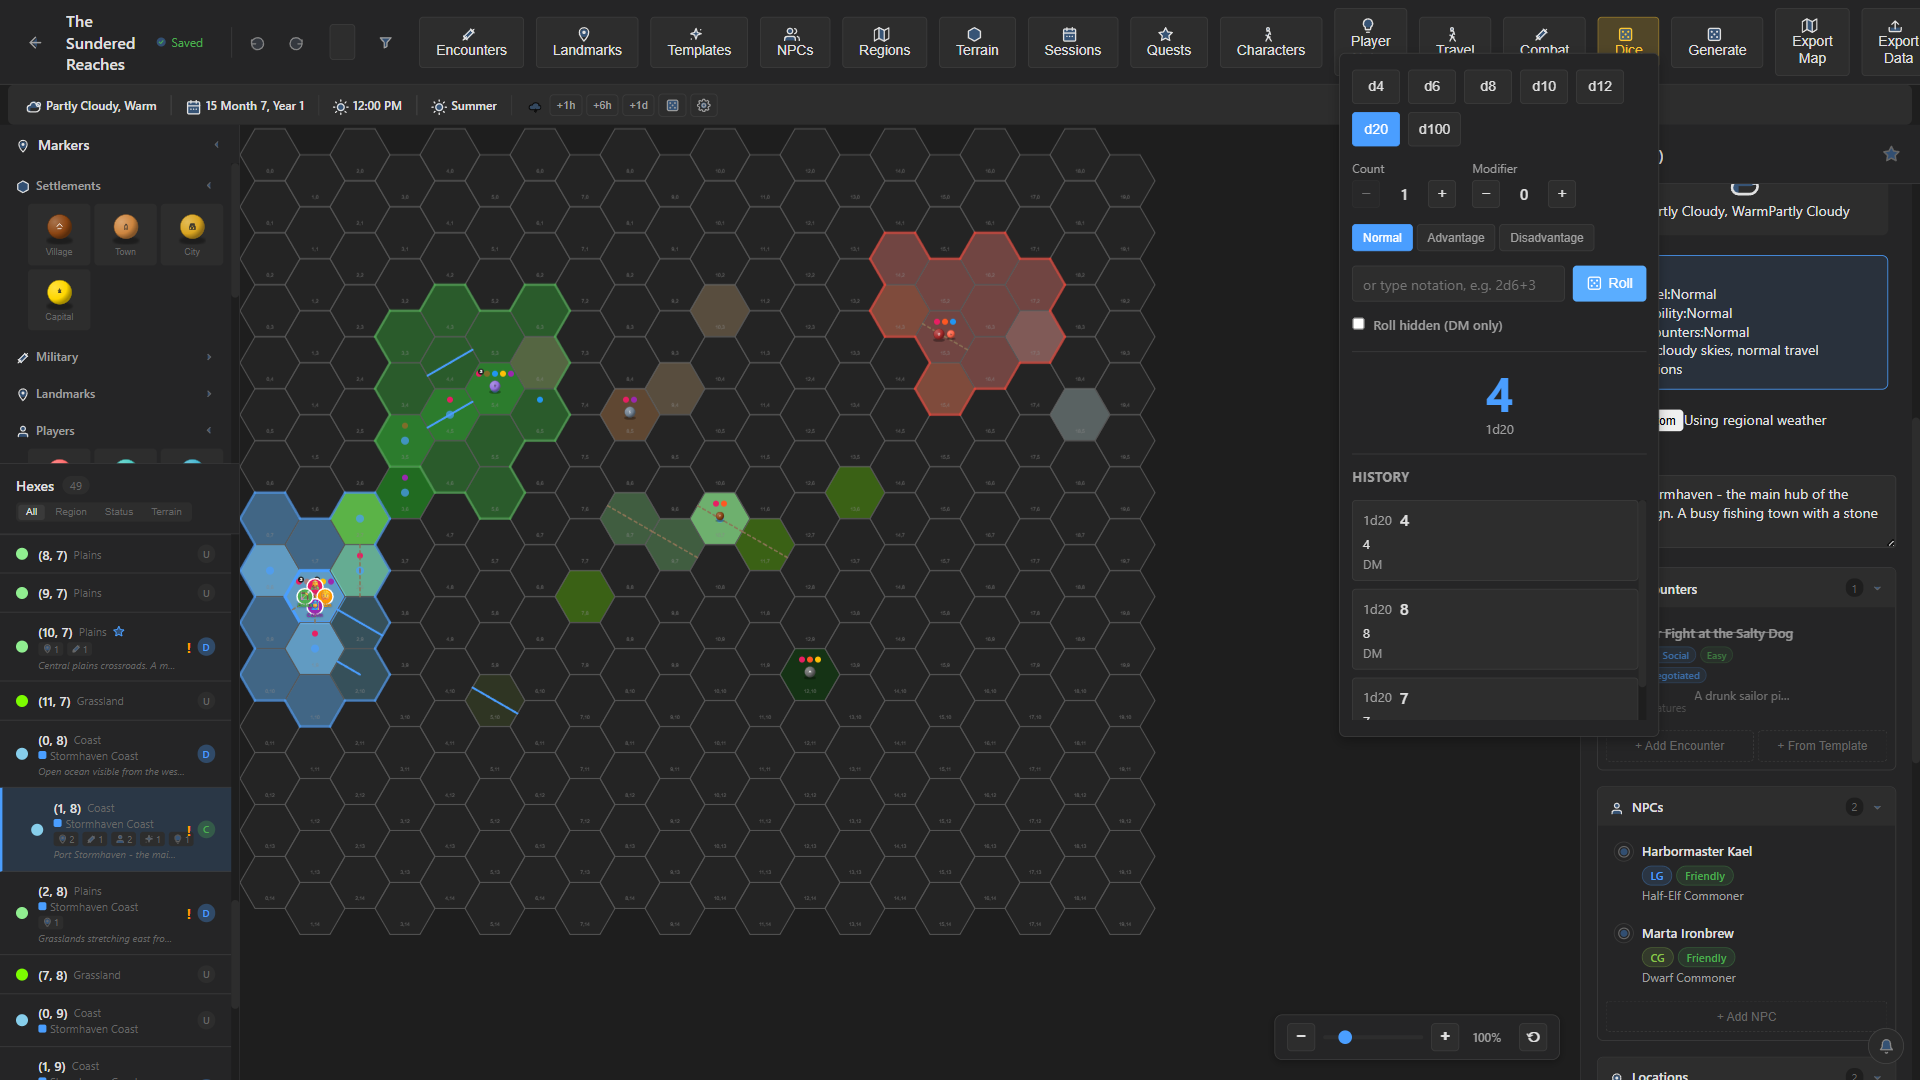
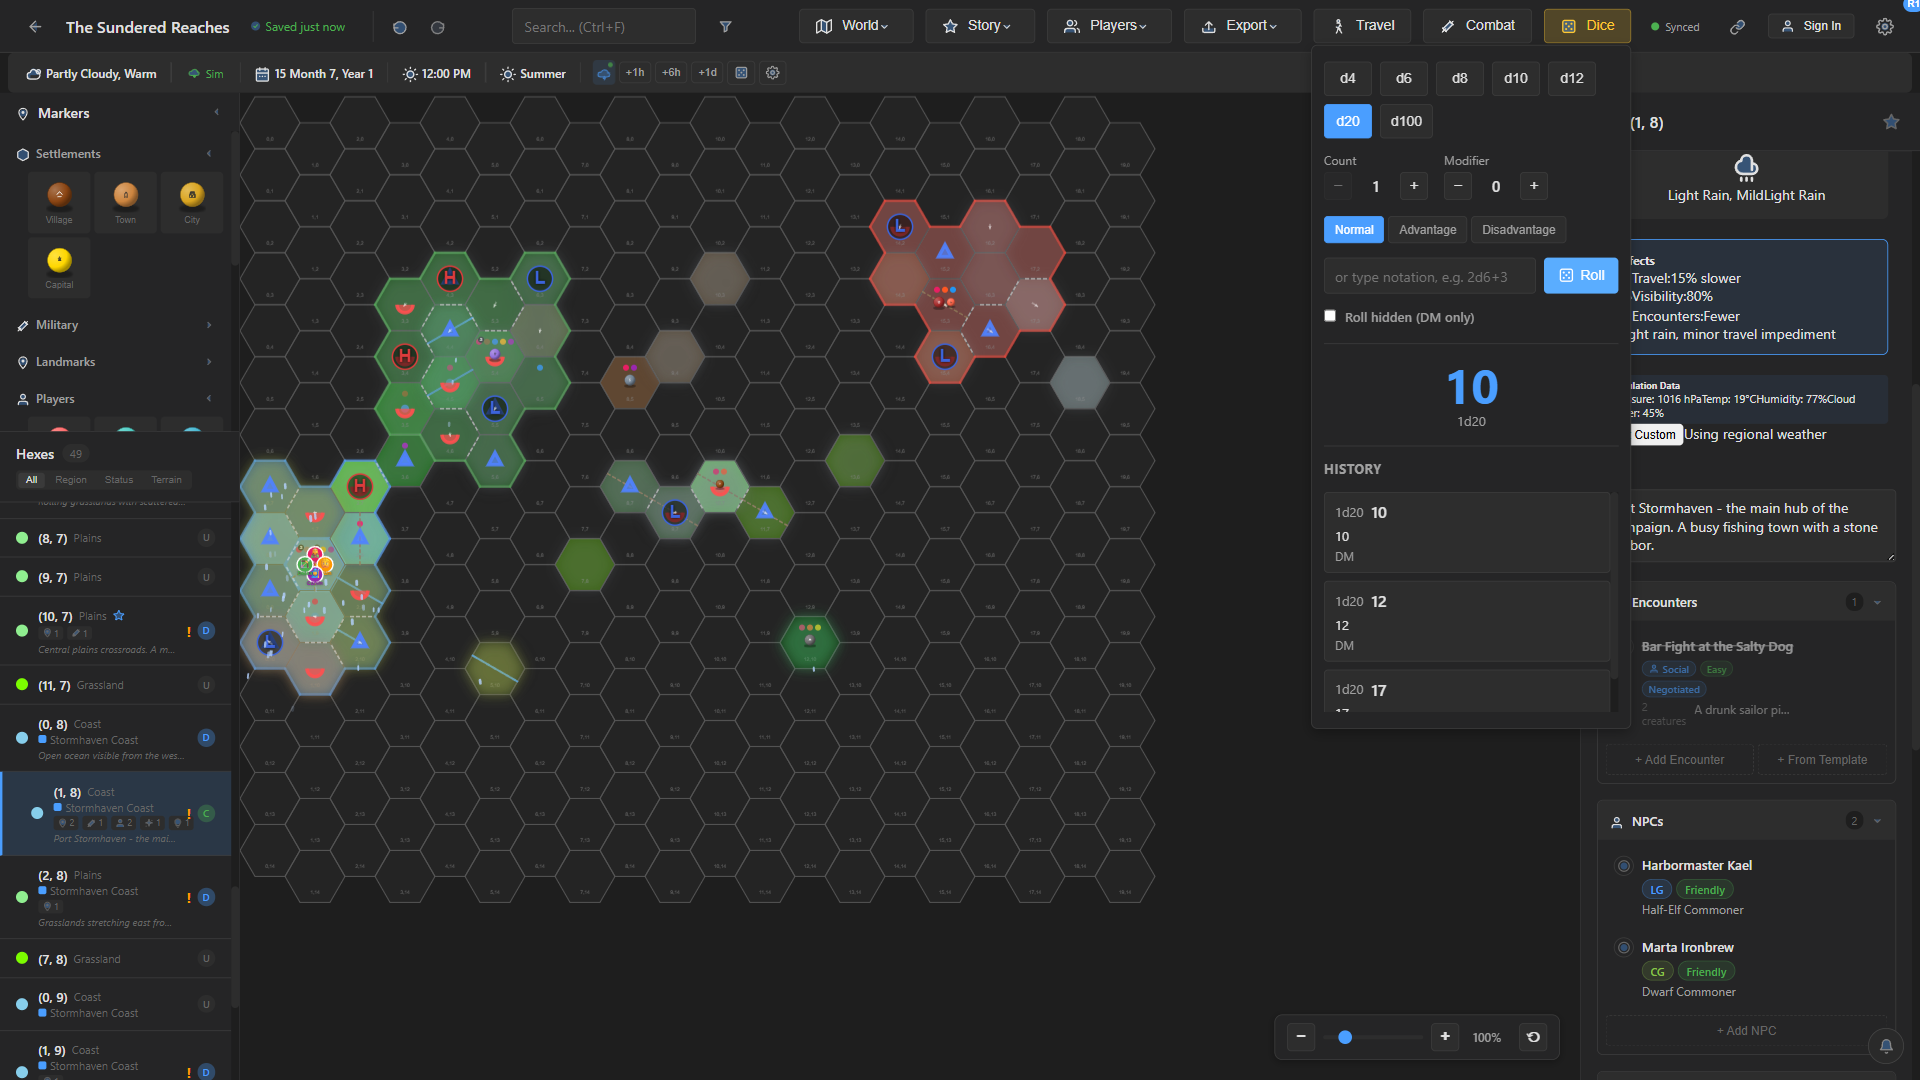
Group toolbar actions into menus so the toolbar fits the window (#131)
* Group toolbar actions into menus so the toolbar fits the window

The editor toolbar was 2274px wide, so at 1920px the last buttons sat past
the edge and clicking one scrolled the whole layout sideways.

Less frequent actions now live in four labelled menus (World, Story,
Players, Export) built on a small ToolbarMenu component with keyboard
support. Travel, Combat and Dice stay as direct buttons. The toolbar also
wraps onto a second row on narrow windows instead of overflowing.

The smoke test and screenshot script open the right menu before clicking
an action, and the smoke test's stale "Tables" check is replaced with
checks for the four menus.

Fixes #127

* Regenerate docs screenshots with the grouped toolbar

diff --git a/src/components/MainEditor.tsx b/src/components/MainEditor.tsx
@@ -32,6 +32,7 @@ import LoginModal from './auth/LoginModal';
 import AccountModal from './auth/AccountModal';
 import ProfileMenu from './auth/ProfileMenu';
 import ConnectionStatus from './ui/ConnectionStatus';
+import ToolbarMenu from './ui/ToolbarMenu';
 import WebServerStatus from './player/WebServerStatus';
 import CreateRegionFromSelectionModal from './modals/CreateRegionFromSelectionModal';
 import ExportTemplateModal from './modals/ExportTemplateModal';
@@ -473,39 +474,49 @@ function MainEditor({ onRegisterExport, onRegisterMapExport, onRegisterExportTem
         </div>
 
         <div className="toolbar-right">
-          <button className="btn btn-secondary" onClick={() => setShowEncounterTableEditor(true)}>
-            <Icon name="sword" size={16} /> Encounters
-          </button>
-          <button className="btn btn-secondary" onClick={() => setShowLandmarkTableEditor(true)}>
-            <Icon name="pin" size={16} /> Landmarks
-          </button>
-          <button className="btn btn-secondary" onClick={() => setShowTemplateLibrary(true)}>
-            <Icon name="sparkle" size={16} /> Templates
-          </button>
-          <button className="btn btn-secondary" onClick={() => setShowNpcDirectory(true)}>
-            <Icon name="users" size={16} /> NPCs
-          </button>
-          <button className="btn btn-secondary" onClick={() => setShowRegionManager(true)}>
-            <Icon name="map" size={16} /> Regions
-          </button>
-          <button className="btn btn-secondary" onClick={() => setShowTerrainEditor(true)}>
-            <Icon name="hexagon" size={16} /> Terrain
-          </button>
-          <button className="btn btn-secondary" onClick={() => setShowSessionLog(true)}>
-            <Icon name="calendar" size={16} /> Sessions
-          </button>
-          <button className="btn btn-secondary" onClick={() => setShowQuestManager(true)}>
-            <Icon name="star" size={16} /> Quests
-          </button>
-          <button className="btn btn-secondary" onClick={() => setShowCharacterPanel(true)}>
-            <Icon name="walk" size={16} /> Characters
-          </button>
-          <button className="btn btn-secondary" onClick={() => setShowPlayerNotes(true)}>
-            <Icon name="lightbulb" size={16} /> Player Notes
-            {(campaign.playerNotes ?? []).length > 0 && (
-              <span className="filter-badge">{(campaign.playerNotes ?? []).length}</span>
-            )}
-          </button>
+          <ToolbarMenu
+            label="World"
+            icon="map"
+            items={[
+              { label: 'Encounters', icon: 'sword', onSelect: () => setShowEncounterTableEditor(true) },
+              { label: 'Landmarks', icon: 'pin', onSelect: () => setShowLandmarkTableEditor(true) },
+              { label: 'Templates', icon: 'sparkle', onSelect: () => setShowTemplateLibrary(true) },
+              { label: 'Regions', icon: 'map', onSelect: () => setShowRegionManager(true) },
+              { label: 'Terrain', icon: 'hexagon', onSelect: () => setShowTerrainEditor(true) },
+              { label: 'Generate', icon: 'dice', onSelect: () => setShowGenerator(true) },
+            ]}
+          />
+          <ToolbarMenu
+            label="Story"
+            icon="star"
+            items={[
+              { label: 'NPCs', icon: 'users', onSelect: () => setShowNpcDirectory(true) },
+              { label: 'Quests', icon: 'star', onSelect: () => setShowQuestManager(true) },
+              { label: 'Sessions', icon: 'calendar', onSelect: () => setShowSessionLog(true) },
+              { label: 'Characters', icon: 'walk', onSelect: () => setShowCharacterPanel(true) },
+            ]}
+          />
+          <ToolbarMenu
+            label="Players"
+            icon="users"
+            items={[
+              {
+                label: 'Player Notes',
+                icon: 'lightbulb',
+                onSelect: () => setShowPlayerNotes(true),
+                badge: (campaign.playerNotes ?? []).length,
+              },
+              { label: 'Message Players', icon: 'info', onSelect: () => setShowDmMessages(!showDmMessages) },
+            ]}
+          />
+          <ToolbarMenu
+            label="Export"
+            icon="export"
+            items={[
+              { label: 'Export Map', icon: 'map', onSelect: () => setShowMapExport(true) },
+              { label: 'Export Data', icon: 'export', onSelect: () => setShowExport(true) },
+            ]}
+          />
           <button
             className={`btn btn-secondary${showTravelPanel ? ' btn-active' : ''}`}
             onClick={() => setShowTravelPanel(!showTravelPanel)}
@@ -517,18 +528,6 @@ function MainEditor({ onRegisterExport, onRegisterMapExport, onRegisterExportTem
             onToggle={() => setShowCombatTracker(!showCombatTracker)}
           />
           <DiceToolbarButton />
-          <button className="btn btn-secondary" onClick={() => setShowGenerator(true)}>
-            <Icon name="dice" size={16} /> Generate
-          </button>
-          <button className="btn btn-secondary" onClick={() => setShowMapExport(true)}>
-            <Icon name="map" size={16} /> Export Map
-          </button>
-          <button className="btn btn-secondary" onClick={() => setShowExport(true)}>
-            <Icon name="export" size={16} /> Export Data
-          </button>
-          <button className="btn btn-secondary" onClick={() => setShowDmMessages(!showDmMessages)}>
-            <Icon name="info" size={16} /> Message Players
-          </button>
           <ConnectionStatus />
           <WebServerStatus />
           <ProfileMenu

diff --git a/src/components/ui/ToolbarMenu.tsx b/src/components/ui/ToolbarMenu.tsx
@@ -1,0 +1,136 @@
+// ToolbarMenu - labelled toolbar button that opens a dropdown of actions
+
+import { useState, useRef, useEffect, useId } from 'react';
+import Icon from '../icons/Icon';
+import type { IconName } from '../icons/Icon';
+
+export interface ToolbarMenuItem {
+  label: string;
+  icon: IconName;
+  onSelect: () => void;
+  /** Count shown beside the item (e.g. unread player notes); hidden when 0 */
+  badge?: number;
+}
+
+interface ToolbarMenuProps {
+  label: string;
+  icon: IconName;
+  items: ToolbarMenuItem[];
+}
+
+function ToolbarMenu({ label, icon, items }: ToolbarMenuProps) {
+  const [open, setOpen] = useState(false);
+  const containerRef = useRef<HTMLDivElement>(null);
+  const triggerRef = useRef<HTMLButtonElement>(null);
+  const itemRefs = useRef<(HTMLButtonElement | null)[]>([]);
+  const menuId = useId();
+
+  const badgeTotal = items.reduce((sum, item) => sum + (item.badge ?? 0), 0);
+
+  // Close when clicking outside (ref-based contains() check, like ProfileMenu)
+  useEffect(() => {
+    if (!open) return;
+    const handleClickOutside = (e: MouseEvent) => {
+      if (containerRef.current && !containerRef.current.contains(e.target as Node)) {
+        setOpen(false);
+      }
+    };
+    document.addEventListener('mousedown', handleClickOutside);
+    return () => document.removeEventListener('mousedown', handleClickOutside);
+  }, [open]);
+
+  // Move focus into the menu when it opens from the keyboard or a click
+  useEffect(() => {
+    if (open) itemRefs.current[0]?.focus();
+  }, [open]);
+
+  const close = (restoreFocus: boolean) => {
+    setOpen(false);
+    if (restoreFocus) triggerRef.current?.focus();
+  };
+
+  const handleMenuKeyDown = (e: React.KeyboardEvent) => {
+    const buttons = itemRefs.current.filter((b): b is HTMLButtonElement => b !== null);
+    const index = buttons.indexOf(document.activeElement as HTMLButtonElement);
+    switch (e.key) {
+      case 'Escape':
+        e.preventDefault();
+        e.stopPropagation();
+        close(true);
+        break;
+      case 'ArrowDown':
+        e.preventDefault();
+        buttons[(index + 1) % buttons.length]?.focus();
+        break;
+      case 'ArrowUp':
+        e.preventDefault();
+        buttons[(index - 1 + buttons.length) % buttons.length]?.focus();
+        break;
+      case 'Home':
+        e.preventDefault();
+        buttons[0]?.focus();
+        break;
+      case 'End':
+        e.preventDefault();
+        buttons[buttons.length - 1]?.focus();
+        break;
+    }
+  };
+
+  // Close when keyboard focus leaves the menu (e.g. Tab to the next control)
+  const handleBlur = (e: React.FocusEvent) => {
+    if (open && !containerRef.current?.contains(e.relatedTarget as Node | null)) {
+      setOpen(false);
+    }
+  };
+
+  return (
+    <div className="toolbar-menu" ref={containerRef} onBlur={handleBlur}>
+      <button
+        ref={triggerRef}
+        className={`btn btn-secondary toolbar-menu-trigger${open ? ' btn-active' : ''}`}
+        onClick={() => setOpen(!open)}
+        onKeyDown={(e) => {
+          if (e.key === 'ArrowDown' && !open) {
+            e.preventDefault();
+            setOpen(true);
+          }
+        }}
+        aria-haspopup="menu"
+        aria-expanded={open}
+        aria-controls={open ? menuId : undefined}
+      >
+        <Icon name={icon} size={16} /> {label}
+        <Icon name="chevron-down" size={12} />
+        {badgeTotal > 0 && (
+          <span className="filter-badge" aria-label={`${badgeTotal} new`}>{badgeTotal}</span>
+        )}
+      </button>
+      {open && (
+        <div id={menuId} className="toolbar-menu-list" role="menu" aria-label={label} onKeyDown={handleMenuKeyDown}>
+          {items.map((item, i) => (
+            <button
+              key={item.label}
+              ref={(el) => { itemRefs.current[i] = el; }}
+              className="toolbar-menu-item"
+              role="menuitem"
+              tabIndex={-1}
+              onClick={() => {
+                close(false);
+                item.onSelect();
+              }}
+            >
+              <Icon name={item.icon} size={16} />
+              <span className="toolbar-menu-item-label">{item.label}</span>
+              {(item.badge ?? 0) > 0 && (
+                <span className="toolbar-menu-item-badge">{item.badge}</span>
+              )}
+            </button>
+          ))}
+        </div>
+      )}
+    </div>
+  );
+}
+
+export default ToolbarMenu;

diff --git a/src/styles/app.css b/src/styles/app.css
@@ -512,7 +512,9 @@ label {
   padding: 8px 16px;
   background-color: var(--bg-secondary);
   border-bottom: 1px solid var(--border-color);
-  gap: 16px;
+  gap: 8px 16px;
+  /* Wrap onto a second row instead of overflowing narrow or zoomed windows */
+  flex-wrap: wrap;
 }
 
 .toolbar-left,
@@ -521,6 +523,79 @@ label {
   display: flex;
   align-items: center;
   gap: 12px;
+  min-width: 0;
+}
+
+.toolbar-right {
+  flex-wrap: wrap;
+  justify-content: flex-end;
+  row-gap: 8px;
+}
+
+/* Grouped toolbar actions (World, Story, Players, Export) */
+.toolbar .toolbar-menu {
+  position: relative;
+}
+
+.toolbar .toolbar-menu-trigger {
+  position: relative;
+}
+
+.toolbar .toolbar-menu-list {
+  position: absolute;
+  top: 100%;
+  left: 0;
+  margin-top: 4px;
+  min-width: 200px;
+  padding: 6px;
+  display: flex;
+  flex-direction: column;
+  gap: 2px;
+  background-color: var(--bg-secondary);
+  border: 1px solid var(--border-color);
+  border-radius: 8px;
+  box-shadow: 0 4px 12px rgba(0, 0, 0, 0.3);
+  z-index: 1000;
+}
+
+.toolbar .toolbar-menu-item {
+  display: flex;
+  align-items: center;
+  gap: 10px;
+  width: 100%;
+  padding: 8px 10px;
+  border: none;
+  border-radius: 4px;
+  background: transparent;
+  color: var(--text-primary);
+  font-size: 14px;
+  text-align: left;
+  cursor: pointer;
+}
+
+.toolbar .toolbar-menu-item:hover,
+.toolbar .toolbar-menu-item:focus-visible {
+  background-color: var(--bg-hover);
+}
+
+.toolbar .toolbar-menu-item:focus-visible {
+  outline: 2px solid var(--accent-color);
+  outline-offset: -2px;
+}
+
+.toolbar .toolbar-menu-item-label {
+  flex: 1;
+}
+
+.toolbar .toolbar-menu-item-badge {
+  min-width: 18px;
+  padding: 0 5px;
+  border-radius: 9px;
+  background-color: var(--accent-color);
+  color: #fff;
+  font-size: 11px;
+  font-weight: 600;
+  text-align: center;
 }
 
 .campaign-title {
@@ -603,6 +678,8 @@ label {
 
 .search-input {
   width: 200px;
+  min-width: 120px;
+  flex-shrink: 1;
   padding: 6px 10px;
   font-size: 13px;
 }

diff --git a/CHANGELOG.md b/CHANGELOG.md
@@ -5,6 +5,11 @@ All notable changes to this project will be documented in this file.
 The format is based on [Keep a Changelog](https://keepachangelog.com/en/1.0.0/),
 and this project adheres to [Semantic Versioning](https://semver.org/spec/v2.0.0.html).
 
+## [Unreleased]
+
+### Changed
+- **Toolbar**: the editor toolbar no longer runs off the right edge of the window. Less frequent actions are grouped into four labelled menus: World (Encounters, Landmarks, Templates, Regions, Terrain, Generate), Story (NPCs, Quests, Sessions, Characters), Players (Player Notes, Message Players) and Export (Export Map, Export Data). Travel, Combat and Dice stay one click away. On narrow windows the toolbar wraps onto a second row instead of scrolling the whole layout sideways. The menus work from the keyboard (arrow keys, Home, End, Escape).
+
 ## [1.5.2] - 2026-10-12
 
 ### Fixed
